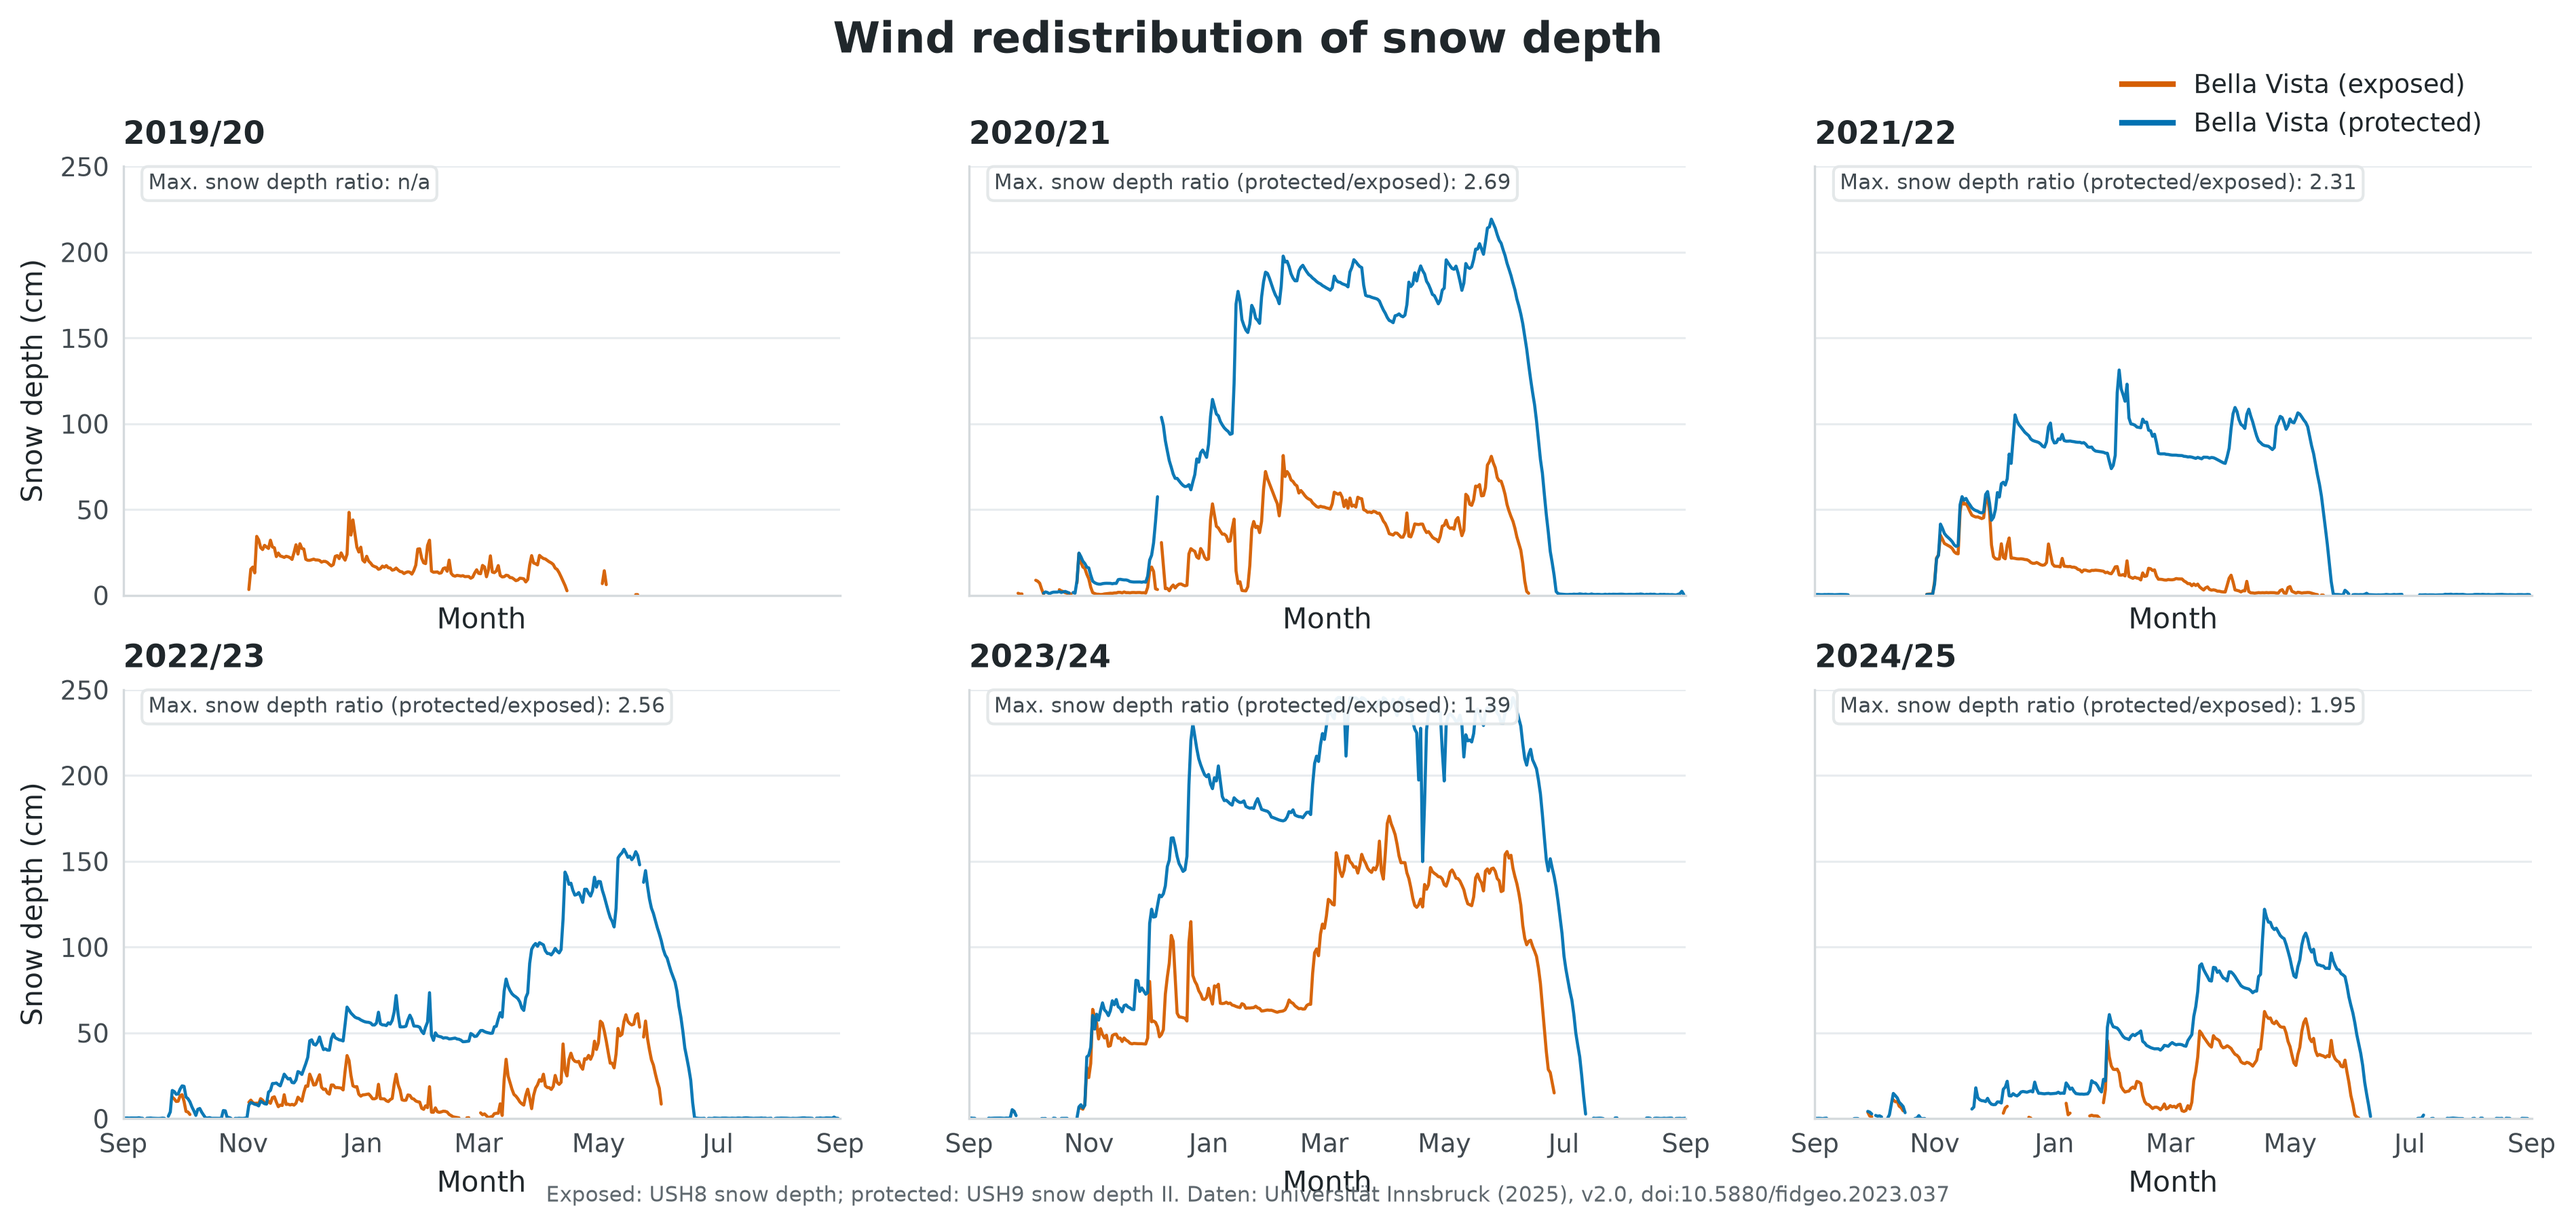
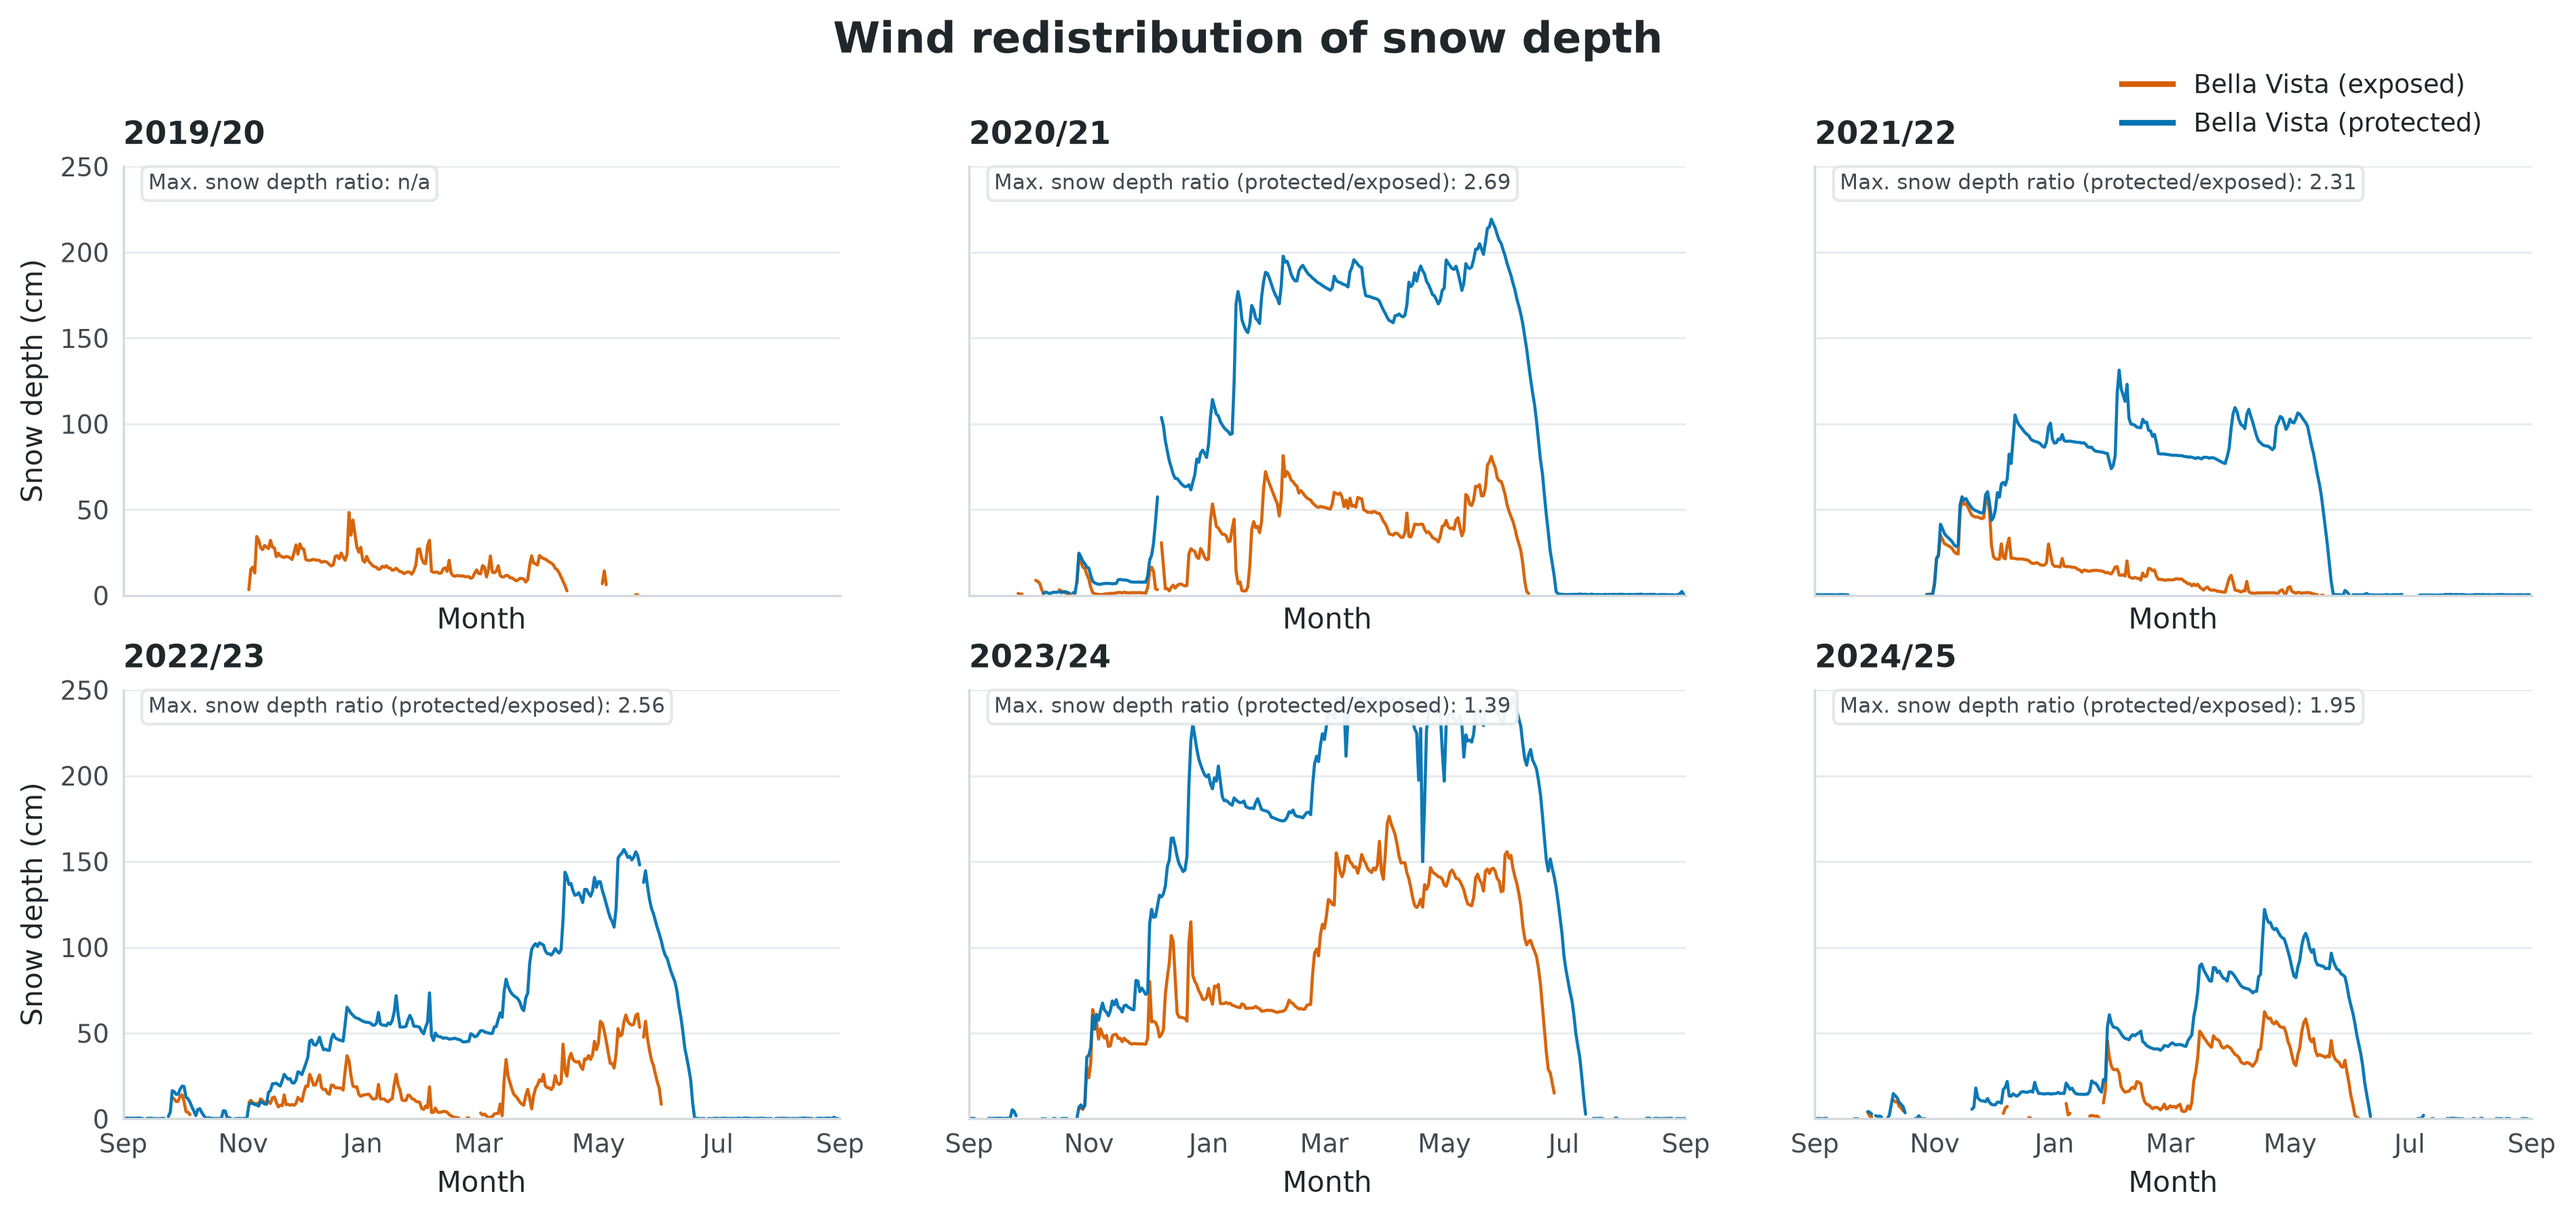
Untertitel von Windverfrachtung angepasst

diff --git a/Windverfrachtung.py b/Windverfrachtung.py
@@ -410,21 +410,6 @@ def make_plot(data, ratios):
         fontweight="bold",
     )
 
-    # Source and measurement-method note.
-    fig.text(
-        0.5,
-        0.018,
-        (
-            "Exposed: USH8 snow depth; "
-            "protected: USH9 snow depth II. "
-            + SOURCE
-        ),
-        ha="center",
-        va="bottom",
-        fontsize=7.5,
-        color="#5F686E",
-    )
-
     # Manually control panel placement and spacing.
     # This replaces tight_layout(), which would override these settings.
     fig.subplots_adjust(
